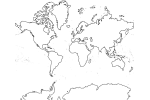
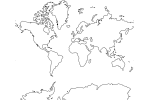
Fix projection rendering artifacts and improve map data sources
- Switch outline layer to ne_10m_coastline (eliminates polygon-closing
  artifacts in regional Lambert projections) with fallback to ne_10m_land
  for polar azimuthal projections where coastline coverage is incomplete
- Switch countries layer to ne_10m_admin_0_boundary_lines_land (pure line
  data, no polygon-closing artifacts from Antarctica)
- Apply PROCESSING "WRAP=180" for all non-polar projections to handle
  antimeridian wrap-around; skip for polar projections to preserve
  circumpolar features
- Add ne_10m_coastline and ne_10m_admin_0_boundary_lines_land to the
  Natural Earth download script
- Regenerate all projection thumbnails with clean renders
- Add overscroll-behavior: contain to sidebar to prevent page bounce

diff --git a/public/editor.html b/public/editor.html
@@ -96,6 +96,7 @@
             flex: 1;
             overflow-y: auto;
             padding: 1rem;
+            overscroll-behavior: contain;
         }
 
         .main {

diff --git a/render/src/MapfileGenerator.php b/render/src/MapfileGenerator.php
@@ -45,7 +45,7 @@ class MapfileGenerator
         $map .= "  STATUS ON\n";
         $map .= "  SIZE {$width} {$height}\n";
         $map .= "  EXTENT {$bbox[0]} {$bbox[1]} {$bbox[2]} {$bbox[3]}\n";
-        $map .= "  UNITS DD\n";
+        $map .= "  UNITS " . ($projection === 'epsg:4326' ? 'DD' : 'METERS') . "\n";
         $map .= "  IMAGECOLOR 255 255 255\n";
         $map .= "  FONTSET \"{$this->fontsDir}/fonts.list\"\n";
         $map .= "  SHAPEPATH \"{$this->shapesDir}\"\n";
@@ -237,10 +237,18 @@ class MapfileGenerator
     {
         $block = "";
 
+        $isPolar = in_array($projection, ['epsg:102017', 'epsg:102019']);
+
         foreach ($layers as $layerName) {
             $layer = Layers::get($layerName);
             if ($layer === null) {
                 continue;
+            }
+
+            // ne_10m_coastline doesn't render Antarctica fully in polar azimuthal projections;
+            // fall back to ne_10m_land (polygon outline) which does.
+            if ($layerName === 'outline' && $isPolar) {
+                $layer['data'] = '10m_physical/ne_10m_land';
             }
 
             $block .= $this->generateLayerBlock($layerName, $layer, $projection, $lineThickness);
@@ -258,6 +266,19 @@ class MapfileGenerator
 
         if (isset($layer['data'])) {
             $block .= "    DATA \"{$layer['data']}\"\n";
+        }
+
+        if (isset($layer['filter'])) {
+            $block .= "    FILTER ({$layer['filter']})\n";
+        }
+
+        if ($layer['type'] !== 'RASTER') {
+            // WRAP=180 fixes antimeridian artifacts in Lambert projections but corrupts
+            // circumpolar features in polar azimuthal projections, so skip it for those.
+            $isPolar = in_array($projection, ['epsg:102017', 'epsg:102019']);
+            if (!$isPolar) {
+                $block .= "    PROCESSING \"WRAP=180\"\n";
+            }
         }
 
         // Layer projection (source data is WGS84)

diff --git a/render/src/Layers.php b/render/src/Layers.php
@@ -10,14 +10,14 @@ class Layers
     private static array $layers = [
         'outline' => [
             'name' => 'Land',
-            'data' => '10m_physical/ne_10m_land',
+            'data' => '10m_physical/ne_10m_coastline',
             'type' => 'LINE',
             'color' => '10 10 10',
             'width' => 0.5
         ],
         'countries' => [
             'name' => 'Countries',
-            'data' => '10m_cultural/10m_cultural/ne_10m_admin_0_map_units',
+            'data' => '10m_cultural/10m_cultural/ne_10m_admin_0_boundary_lines_land',
             'type' => 'LINE',
             'color' => '10 10 10',
             'width' => 0.75
